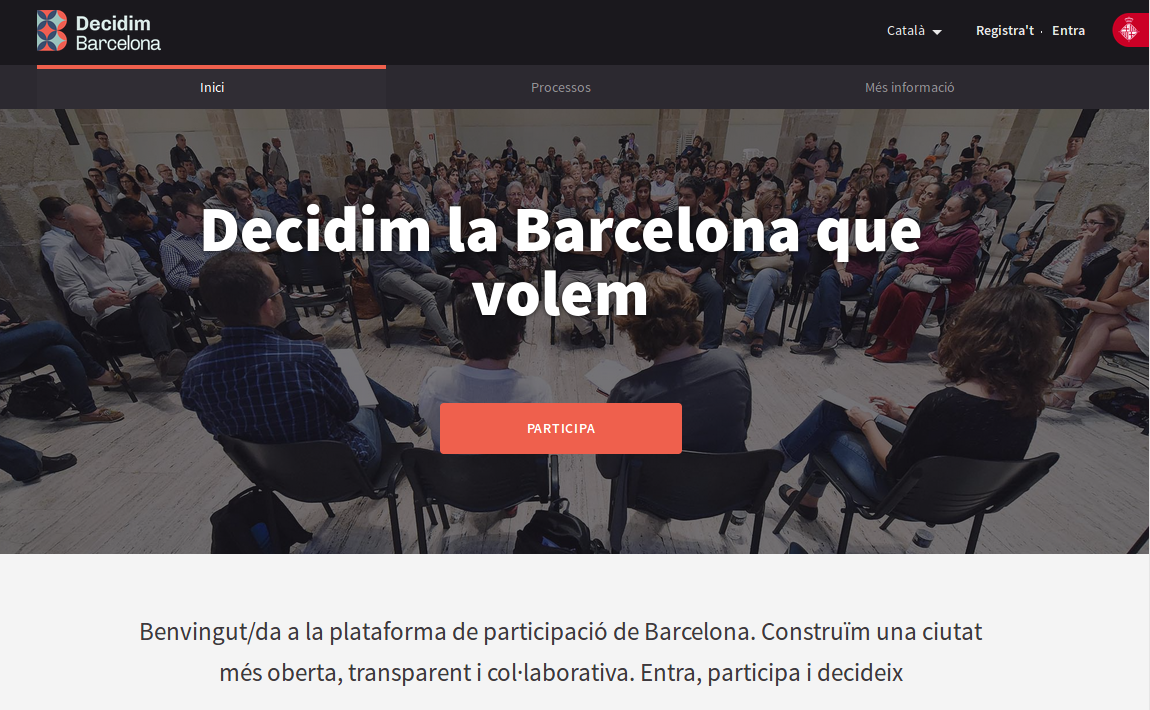
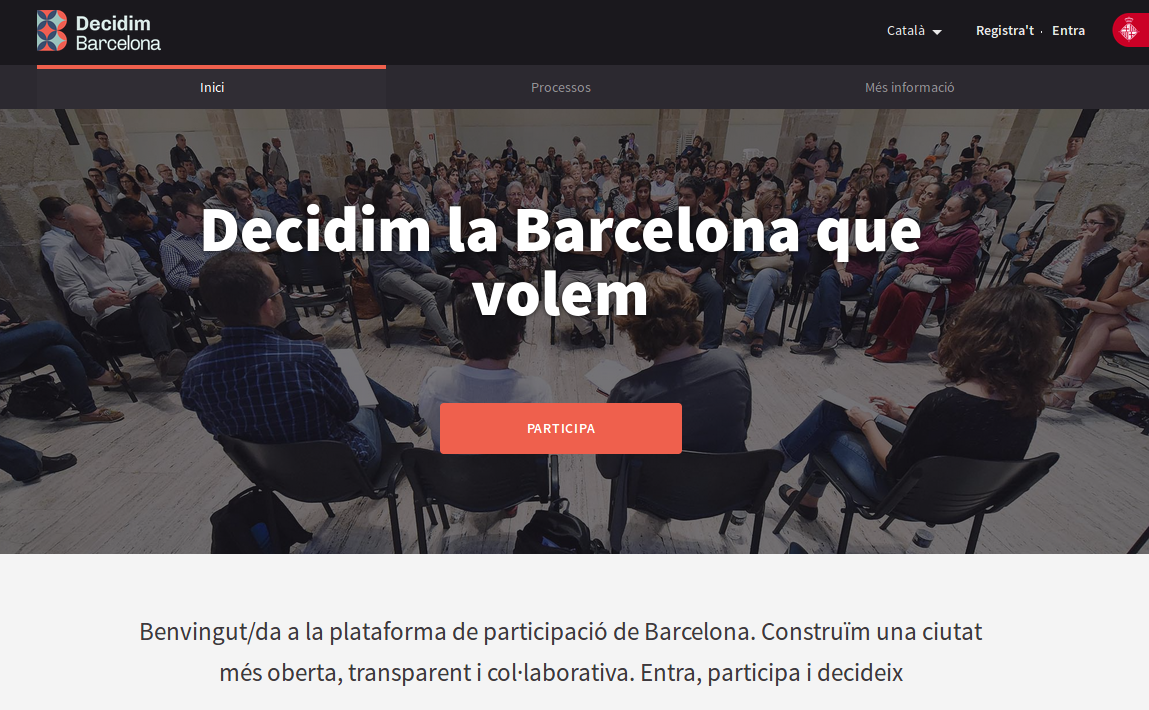
Hero fixes

diff --git a/source/stylesheets/modules/_hero.scss b/source/stylesheets/modules/_hero.scss
@@ -1,10 +1,12 @@
 .hero{
   text-align: center;
-  background-image: linear-gradient(to bottom, rgba($darkblue, 1), rgba($blue, 1)),
-                    url(/images/signal.svg);
+  background-color: $blue;
+  background-image: linear-gradient(to bottom, rgba($darkblue, 1), rgba($blue, .9)),
+                    url(/images/intersecting-circles.svg);
   padding-top: 5rem;
   color: white;
   box-shadow: 0 0 4px 0 rgba(0,0,0,.13);
+  overflow: hidden;
 }
 
 .hero__container{
@@ -41,11 +43,21 @@
 .hero__image{
   max-width: 850px;
   margin: 2rem auto 0;
+  position: relative;
   img{
     display: block;
-    border-top: 20px solid lightgrey;
-    border-left: 1px solid lightgrey;
-    border-right: 1px solid lightgrey;
+    border-top: 20px solid #CFD8DD;
+    //border-left: 1px solid lightgrey;
+    //border-right: 1px solid lightgrey;
     border-radius: 10px 10px 0 0;
+    box-shadow: 0 0 80px 0 rgba(0,0,0,.4);
+  }
+  &:before{
+    content: "•••";
+    position: absolute;
+    top: -10px;
+    left: 10px;
+    color: rgba(black,.2);
+    font-size: 200%;
   }
 }
